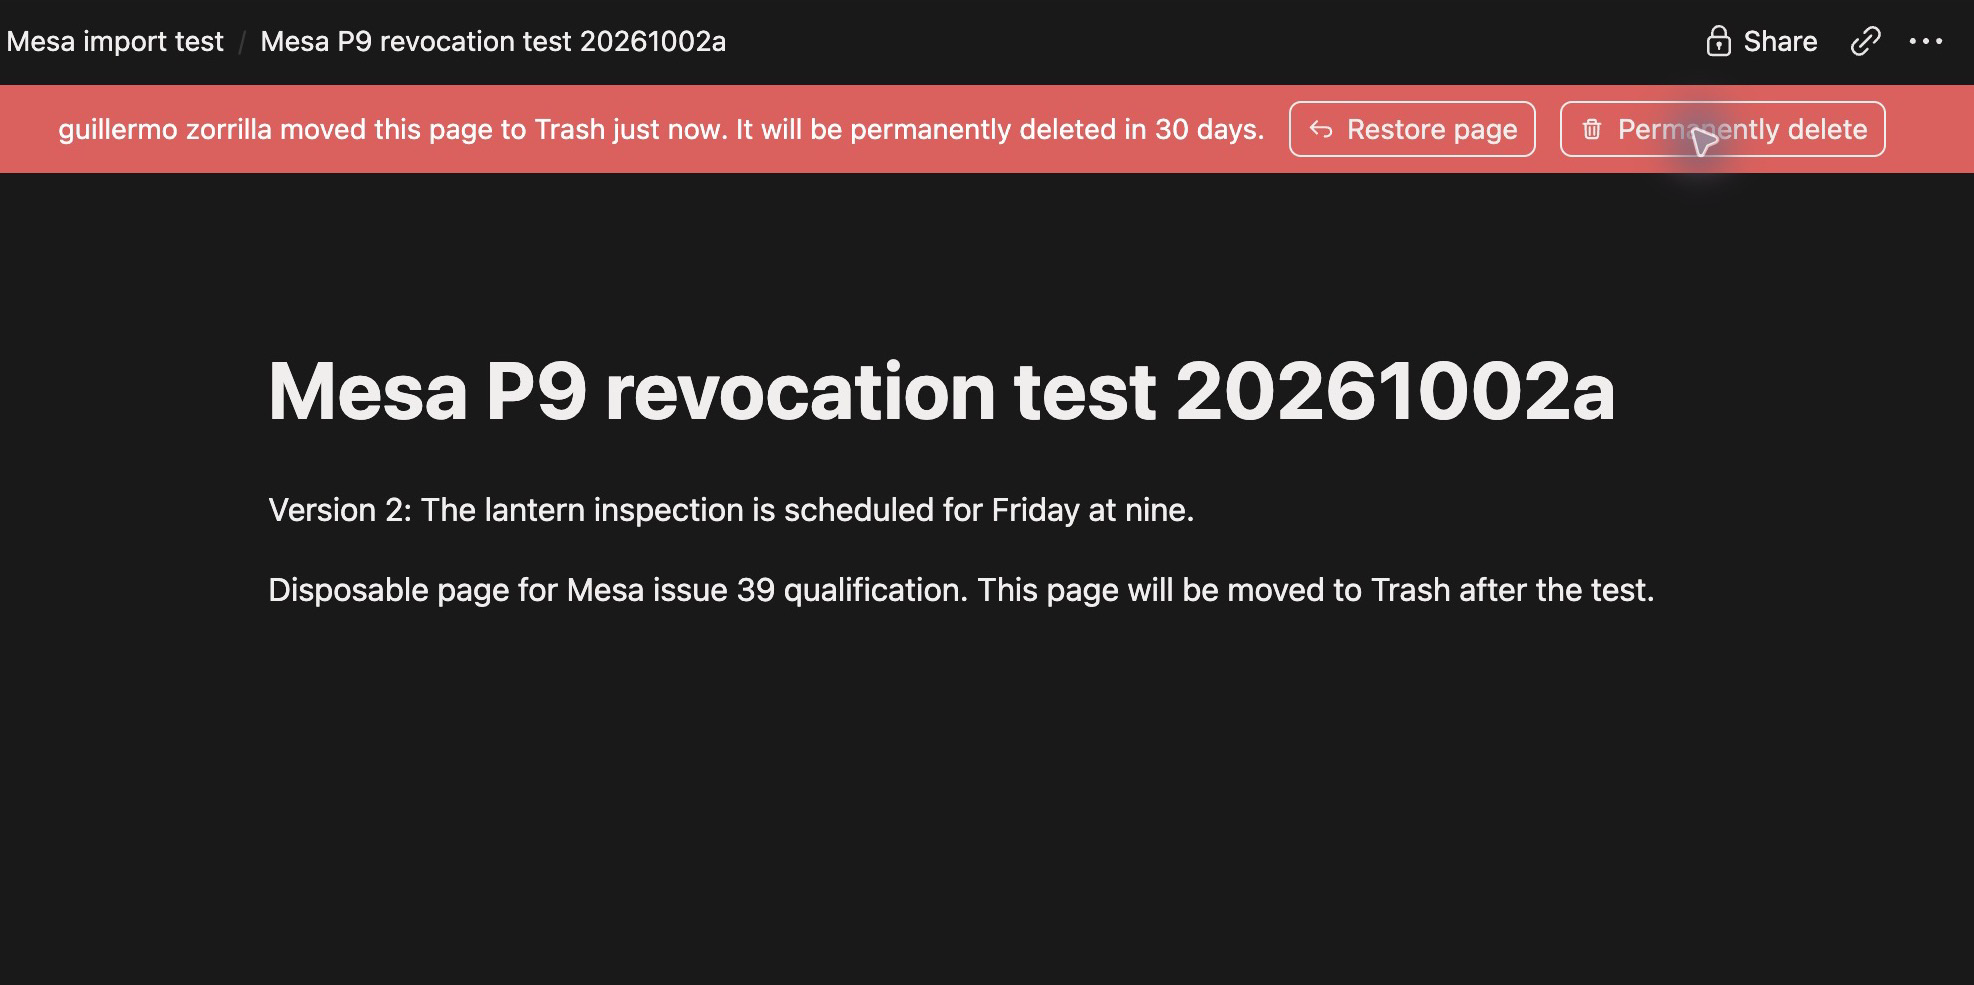
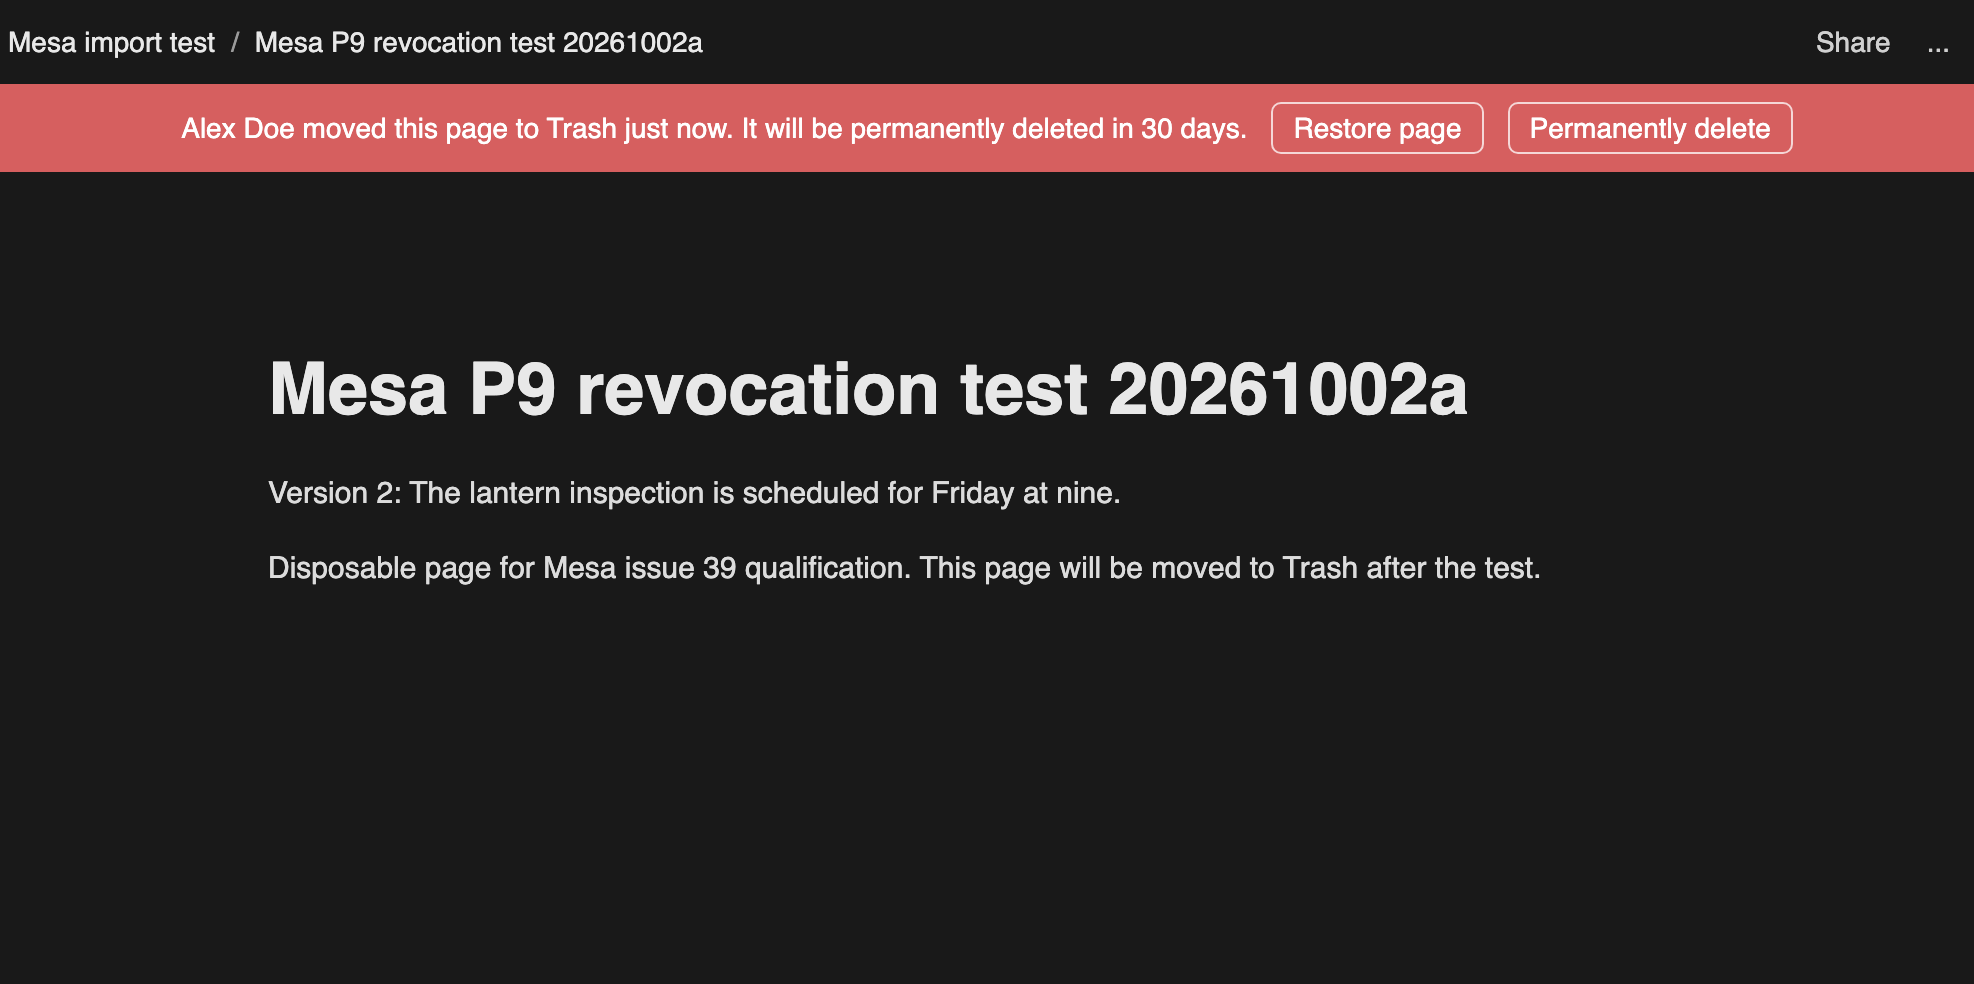
repo: scrub private names, paths and the reference app (#430)
Remove the reference app's name and the parity spike, the employer's
Atlassian site name, and home paths from the tree; replace the trashed
Notion screenshot with an invented one.

diff --git a/packages/core/src/worktrees/lifecycle.ts b/packages/core/src/worktrees/lifecycle.ts
@@ -14,8 +14,8 @@ import { listWorktrees, type WorktreeRow } from './inventory.js';
 import { worktreeScript } from './settings.js';
 
 /**
- * remove deletes a linked checkout; recycle resets it for reuse, detached at the default branch, as
- * Xirp does; trash moves it, with its files and branch, into the profile's recycle/; cleanup prunes
+ * remove deletes a linked checkout; recycle resets it for reuse, detached at the default branch;
+ * trash moves it, with its files and branch, into the profile's recycle/; cleanup prunes
  * missing registrations.
  */
 export type WorktreeAction = 'remove' | 'recycle' | 'trash' | 'cleanup';
@@ -324,7 +324,7 @@ export async function applyWorktreeAction(
   }
   if (action === 'recycle') {
     const base = preview.base as string;
-    // The newest default branch, as Xirp fetches first; offline, the one already fetched.
+    // The newest default branch, fetched first; offline, the one already fetched.
     const fetched = base.startsWith('origin/')
       ? (await gitCommand(run, root, ['fetch', '--prune', 'origin'], 60_000)).ok
       : true;

diff --git a/apps/desktop/src/app/App.test.tsx b/apps/desktop/src/app/App.test.tsx
@@ -100,7 +100,7 @@ test('global shortcuts open from the top bar with either sidebar layout, without
         ':scope > div:last-child [aria-label="Projects"], :scope > div:last-child [aria-label="Help"]',
       ),
     ).toHaveLength(0);
-    // No Analytics: Cost opens the usage window, as in Xirp.
+    // No Analytics: Cost opens the usage window.
     expect(byTestId('nav-usage')).toHaveLength(0);
     for (const [id, label, panel] of [
       ['cost', 'Cost', 'usage-panel'],
@@ -837,7 +837,7 @@ test('project Files tab edits through the bridge, previews inert Markdown, and p
     ),
   );
   expect(byTestId('files-workspace')).toHaveLength(1);
-  // Folders start closed, as in Xirp.
+  // Folders start closed.
   expect(document.querySelector('[aria-label="File tree"]')?.textContent).toBe('docs');
   await click(
     [...document.querySelectorAll<HTMLButtonElement>('[aria-label="File tree"] button')].find(

diff --git a/packages/core/src/sessions/tmux/server-options.ts b/packages/core/src/sessions/tmux/server-options.ts
@@ -25,7 +25,7 @@ export const SERVER_OPTIONS = [
   ['-g', 'remain-on-exit', 'on'],
   ['-g', 'history-limit', '10000'],
   ['-g', 'default-terminal', 'tmux-256color'],
-  // The app's embedded terminal (ADR-0007 amendment, SP-3), as Xirp sets its sessions: the wheel
+  // The app's embedded terminal (ADR-0007 amendment, SP-3): the wheel
   // scrolls tmux's history instead of sending arrow keys to the agent, and no status row. A
   // copy goes out as OSC 52 (to the app) and, through COPY_BINDINGS, to pbcopy.
   // ponytail: no allow-passthrough (pane output could write the pasteboard) and no RGB claim

diff --git a/apps/desktop/src/features/worktrees/WorktreesSection.tsx b/apps/desktop/src/features/worktrees/WorktreesSection.tsx
@@ -11,7 +11,7 @@ import { WorktreeDialog } from './WorktreeDialog';
 import { nameOf } from './worktreeName';
 
 /**
- * A project's Worktrees, as Xirp's: a card per checkout whose hover actions start a session in it,
+ * A project's Worktrees: a card per checkout whose hover actions start a session in it,
  * recycle it (reset for reuse, detached at the default branch), or remove it, each after the
  * guarded preview (CONTEXT.md, Worktree): a remove with local work lists it and asks Delete
  * anyway. Cleanup prunes missing registrations.

diff --git a/apps/desktop/src/features/settings/SettingsDialog.tsx b/apps/desktop/src/features/settings/SettingsDialog.tsx
@@ -23,7 +23,7 @@ import { WorktreeSettings } from './WorktreeSettings';
 /** Screens the settings window hands off to; it closes first. */
 export type SettingsDestination = 'doctor' | 'prompts' | 'shortcuts' | 'backup' | 'usage';
 
-/** Xirp's Settings window: the profile, a searchable category tree, and each category's rows. */
+/** The Settings window: the profile, a searchable category tree, and each category's rows. */
 export function SettingsDialog(props: {
   open: boolean;
   onOpenChange: (open: boolean) => void;

diff --git a/apps/desktop/src/features/worktrees/WorktreeCard.tsx b/apps/desktop/src/features/worktrees/WorktreeCard.tsx
@@ -10,7 +10,7 @@ import { statusOf } from './worktreeStatus';
 export type Card = WorktreeRow & WorktreeDetails;
 
 /**
- * One checkout, as Xirp's card: with a session in it, a click opens that session and there is no
+ * One checkout's card: with a session in it, a click opens that session and there is no
  * New session; otherwise a click, or the play action, starts one. A linked worktree adds Recycle and
  * Remove, its commits ahead of the default branch, and its age, which the actions cover on hover.
  */

diff --git a/apps/desktop/src/app/navigation.ts b/apps/desktop/src/app/navigation.ts
@@ -23,7 +23,7 @@ export type WorkspaceView =
   | { kind: 'project'; name: string; file?: { checkout: string; path: string; line: number } }
   | { kind: 'session'; id: string };
 
-/** Usage and Notifications open over the current view, as Xirp's dialog and menu do. */
+/** Usage and Notifications open over the current view, as a dialog and a menu. */
 export type Overlay = 'usage' | 'inbox' | 'settings' | 'shortcuts';
 
 /** The command palette's action and setting ids that open the view of the same kind. */

diff --git a/apps/desktop/src/app/hooks/useStartSession.ts b/apps/desktop/src/app/hooks/useStartSession.ts
@@ -19,7 +19,7 @@ export type SessionPreset = {
 };
 
 /**
- * `requestNewSession` starts a session at once, as Xirp does: no dialog, and no agent, so
+ * `requestNewSession` starts a session at once: no dialog, and no agent, so
  * `mesa open` takes the project's, else the profile default. With no project named, the one in
  * view, else the first that exists. Once it opens, it is shown through `navigateLatest`.
  * `starting` lists the sessions starting, by project (GENERAL_PROJECT for General): the sidebar

diff --git a/apps/desktop/src/features/settings/SettingsDialog.test.tsx b/apps/desktop/src/features/settings/SettingsDialog.test.tsx
@@ -60,7 +60,7 @@ const type = async (id: string, text: string) => {
   await act(async () => field.dispatchEvent(new FocusEvent('focusout', { bubbles: true })));
 };
 
-test('the window lists Xirp categories and saves the default coding agent, claude by default', async () => {
+test('the window lists the setting categories and saves the default coding agent, claude by default', async () => {
   const { bridge, calls } = fakeBridge({ 'config set': () => envelope({}) });
   await render(bridge);
   expect(

diff --git a/apps/desktop/src/features/help/KeyboardShortcutsDialog.tsx b/apps/desktop/src/features/help/KeyboardShortcutsDialog.tsx
@@ -11,7 +11,7 @@ import { FIXED_SHORTCUTS, keyCaps } from '@/lib/fixedShortcuts';
 import { useAct } from '@/lib/useAct';
 import { useRun } from '@/lib/useCommand';
 
-/** The profile's shortcuts, each customizable; the order Xirp lists its global ones in. */
+/** The profile's shortcuts, each customizable, global ones in a fixed order. */
 const CUSTOM: { key: keyof Shortcuts; label: string }[] = [
   { key: 'search', label: 'Command palette' },
   { key: 'newSession', label: 'New session' },

diff --git a/apps/desktop/src/features/notifications/NotificationsMenu.test.tsx b/apps/desktop/src/features/notifications/NotificationsMenu.test.tsx
@@ -140,7 +140,7 @@ test('Clear all asks first, then clears the whole center in one call', async () 
   expect(byTestId('nav-inbox')[0]?.getAttribute('aria-label')).toBe('Notifications');
 });
 
-test('notice times read as Xirp writes them', () => {
+test('notice times read as relative times', () => {
   const now = Date.parse('2026-09-30T12:00:00.000Z');
   expect(timeAgo('2026-09-30T11:59:40.000Z', now)).toBe('just now');
   expect(timeAgo('2026-09-30T11:15:00.000Z', now)).toBe('45m ago');

diff --git a/apps/desktop/src/features/sessions/selected/AgentSwitcher.tsx b/apps/desktop/src/features/sessions/selected/AgentSwitcher.tsx
@@ -11,7 +11,7 @@ import {
 import { useCommand } from '@/lib/useCommand';
 
 /**
- * The session header's agent, as Xirp's coding agent menu: the current agent first, then "Swap
+ * The session header's agent menu: the current agent first, then "Swap
  * to" each other installed one, which swaps a fresh session in place and hands off one with a
  * conversation (CONTEXT.md, Swap). An agent not installed is shown, disabled. Busy while the
  * session works, as a swap waits for it to be idle.
